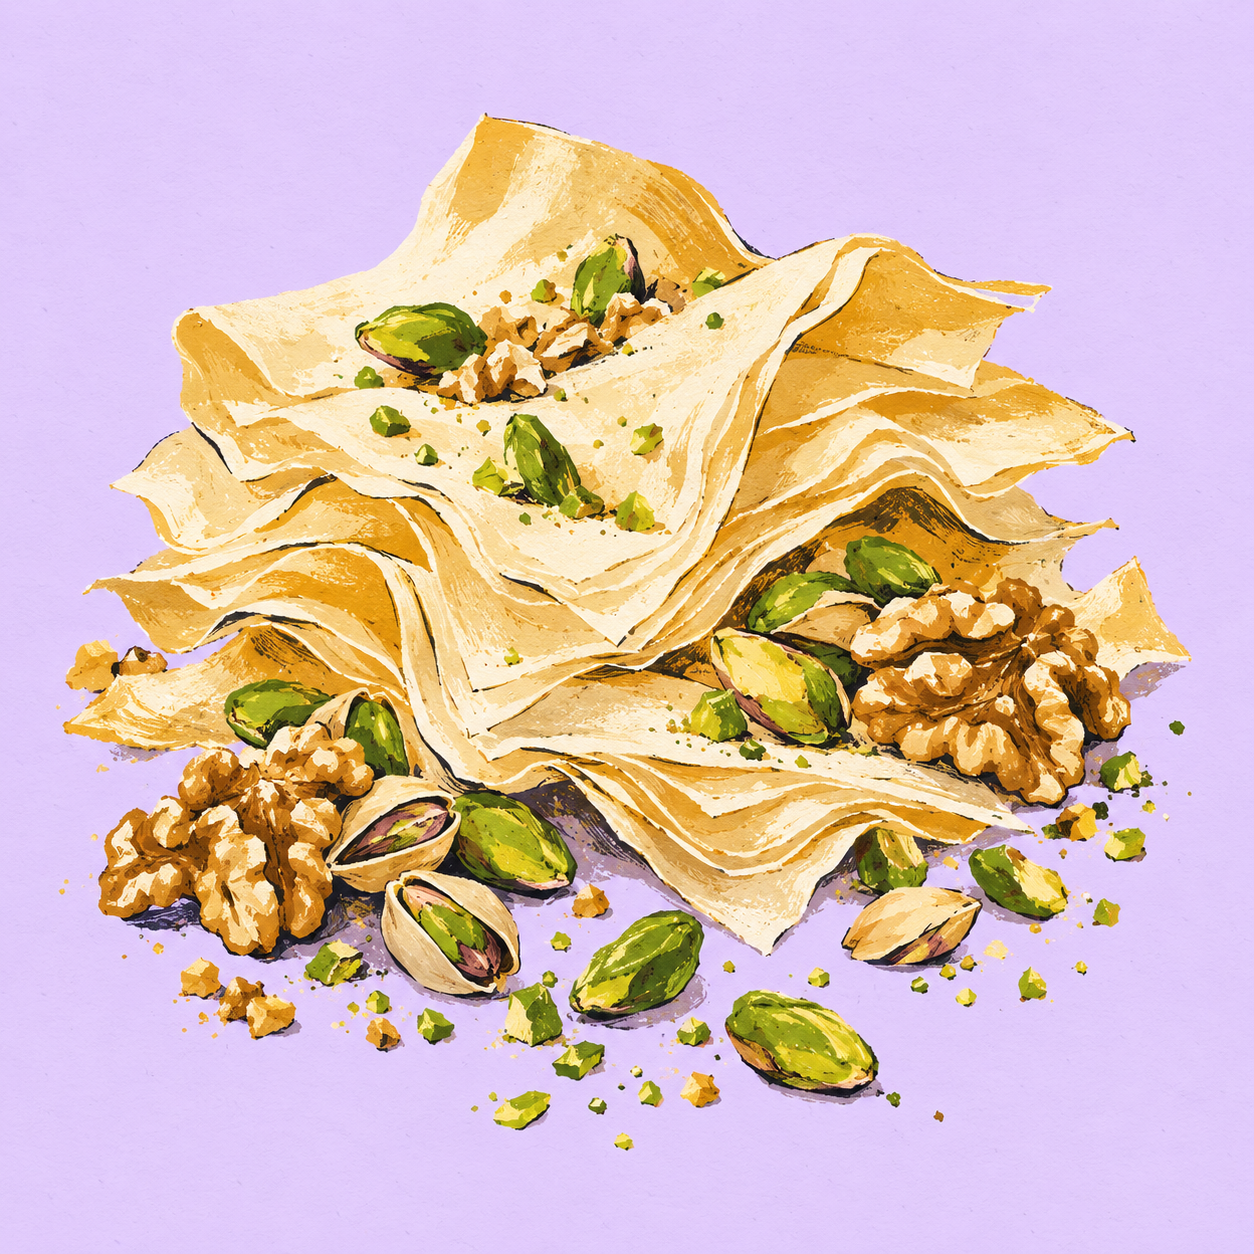
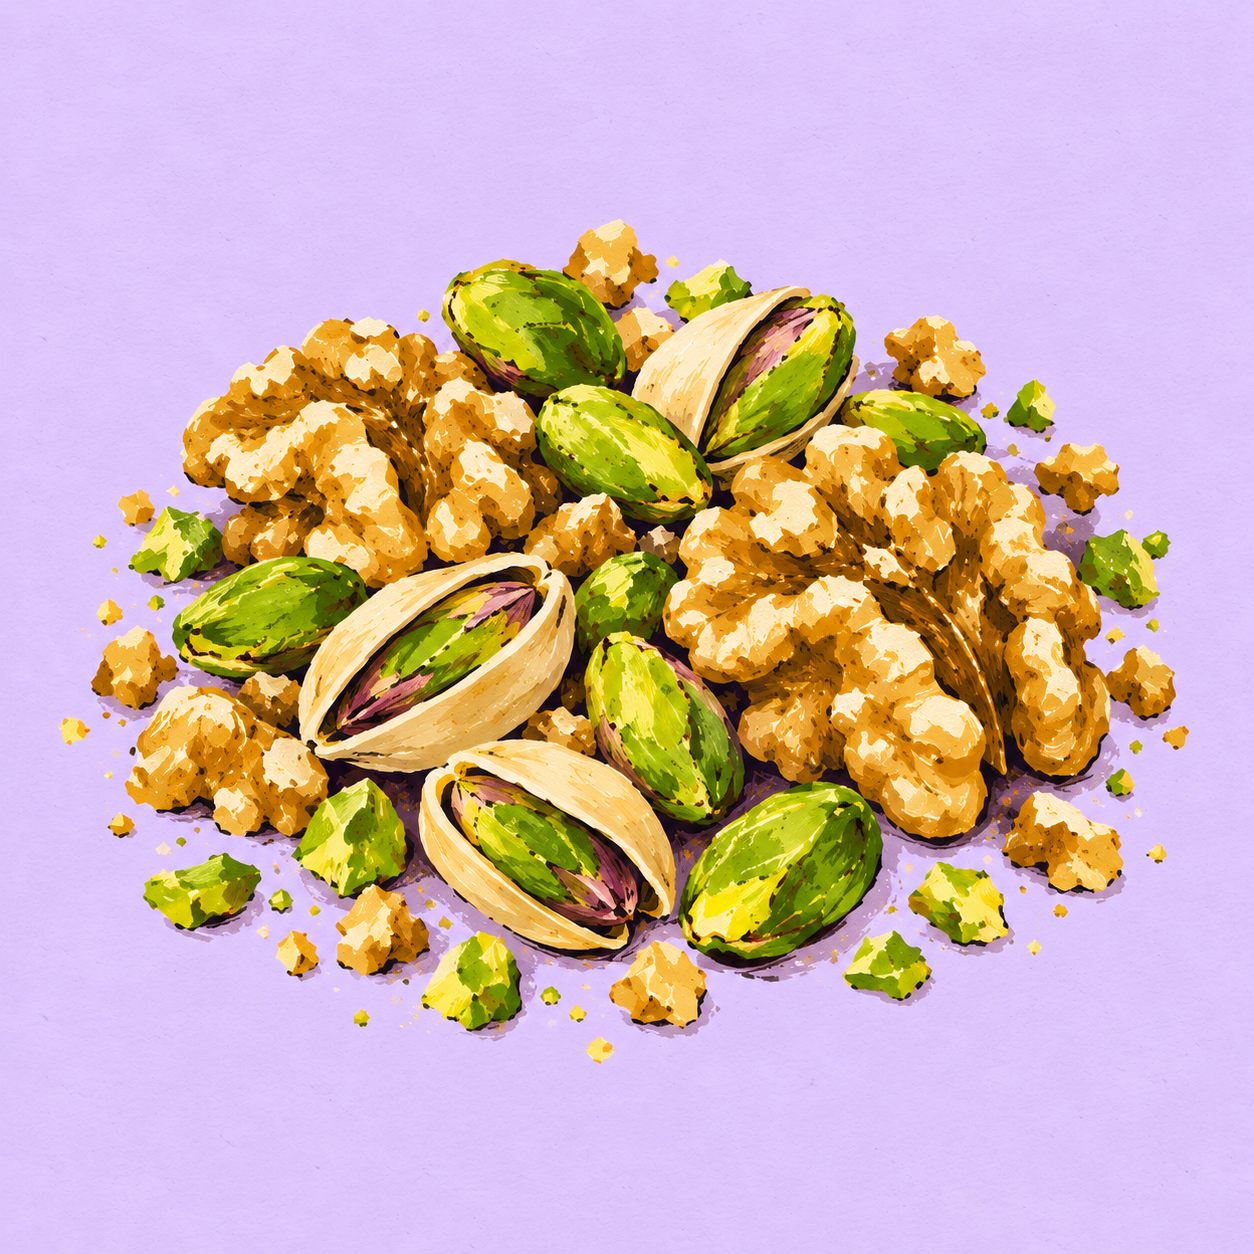
Use only pistachios and walnuts in process illustration

diff --git a/src/Process.jsx b/src/Process.jsx
@@ -1,6 +1,6 @@
 import React from 'react';
 const steps=[
- {id:'ingredients',title:'FROM TÜRKİYE',body:'Ingredients from Türkiye. The beginning of every good layer.',alt:'Pistachios, walnuts and fine filo pastry on a lavender surface'},
+ {id:'ingredients',title:'FROM TÜRKİYE',body:'Ingredients from Türkiye. The beginning of every good layer.',alt:'Antep pistachios and walnuts on a lavender surface'},
  {id:'craft',title:'IN EXPERT HANDS',body:'Prepared by Turkish baklava masters, with care in every layer.',alt:'Pastry chef hands layering filo and pistachio filling in a baking tray'},
  {id:'baking',title:'BAKED FRESH',body:'Golden, flaky and freshly baked. Ready for a sweet moment.',alt:'Neat rows of square-cut golden pistachio baklava in a tray'}
 ];

diff --git a/AGENTS.md b/AGENTS.md
@@ -51,3 +51,5 @@ Build app UI in `src/`. Keep `.openai/hosting.json`, `worker/index.js`, `scripts
 - Latest process visual direction: use generated hand-drawn editorial illustrations instead of photographs. Keep the restrained three-card layout; lavender backgrounds, pistachio green and golden ochre, no heavy cartoon frames. This supersedes the photography preference above.
 
 - Latest process refinement: compact numbered three-step strip with smaller illustrations (160 px desktop / 140 px mobile), arrows and “bak-la-vaah” pronunciation. Baking illustration must show square-cut baklava with no steam/smoke.
+
+- Ingredients process illustration must contain only Antep pistachios and walnuts; no filo or pastry sheets.
